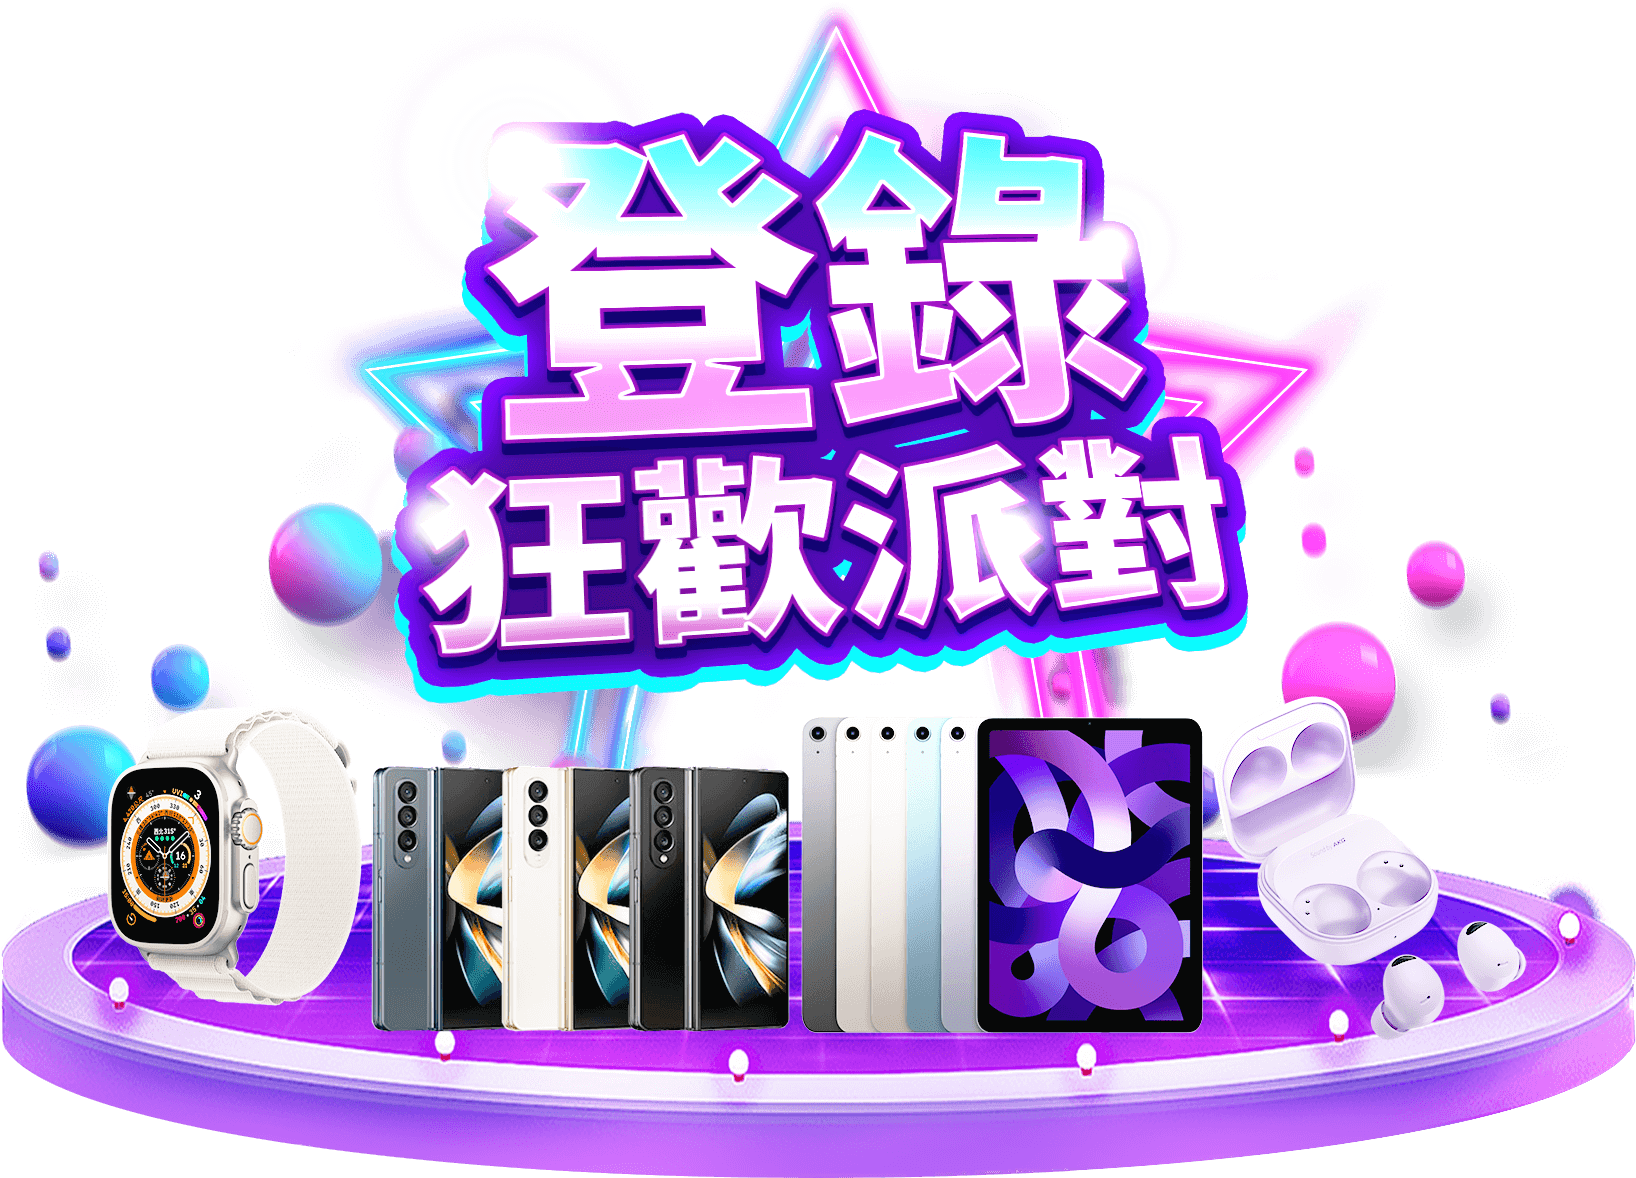
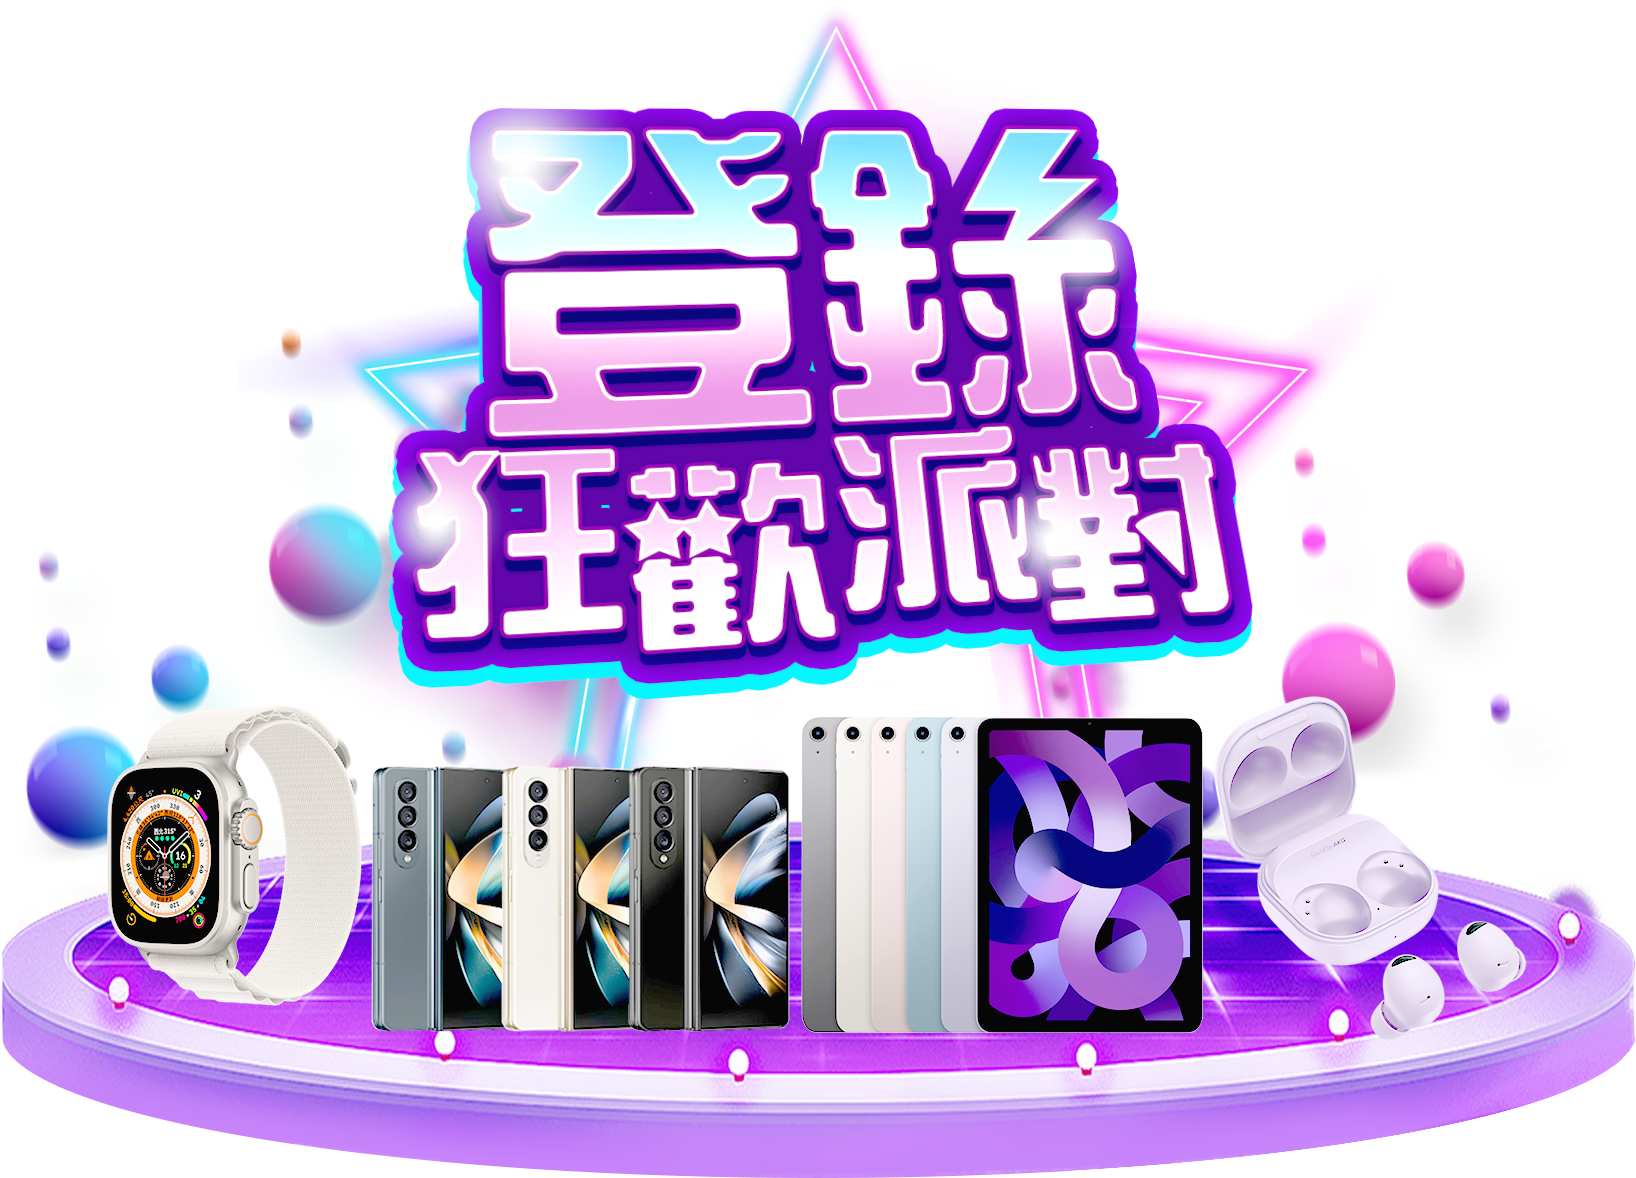
主視覺優化

diff --git a/202210preregister.css b/202210preregister.css
@@ -94,22 +94,22 @@ body {
 
 @keyframes eventMv {
     0% {
-        content: url('https://image.mycard520.com/globalmycard/member/preregister/main/202210/webImg/eventMv01.png');
+        content: url('./preregister/eventMv01.png?v=20230528');
     }
     92% {
-        content: url('https://image.mycard520.com/globalmycard/member/preregister/main/202210/webImg/eventMv01.png');
+        content: url('./preregister/eventMv01.png?v=20230528');
     }
     94% {
-        content: url('https://image.mycard520.com/globalmycard/member/preregister/main/202210/webImg/eventMv.png');
+        content: url('./preregister/eventMv.png?v=20230528');
     }
     96% {
-        content: url('https://image.mycard520.com/globalmycard/member/preregister/main/202210/webImg/eventMv01.png');
+        content: url('./preregister/eventMv01.png?v=20230528');
     }
     98% {
-        content: url('https://image.mycard520.com/globalmycard/member/preregister/main/202210/webImg/eventMv.png');
+        content: url('./preregister/eventMv.png?v=20230528');
     }
     100% {
-        content: url('https://image.mycard520.com/globalmycard/member/preregister/main/202210/webImg/eventMv01.png');
+        content: url('./preregister/eventMv01.png?v=20230528');
     }
 }
 

diff --git a/index.html b/index.html
@@ -45,9 +45,9 @@
     <div class="container-fluid mainBody">
         <div class="container">
             <div class="row justify-content-center p-4 position-relative">
-                <img class="eventMv" src="https://image.mycard520.com/globalmycard/member/preregister/main/202210/webImg/eventMv.png" alt="">
-                <img class="b1 col-xl-3 col-md-3 col-sm-4 col-3" src="https://image.mycard520.com/globalmycard/member/preregister/main/202210/webImg/b1.png" alt="">
-                <img class="b2 col-xl-3 col-md-3 col-sm-4 col-3" src="https://image.mycard520.com/globalmycard/member/preregister/main/202210/webImg/b2.png" alt="">
+                <img class="eventMv col-md-8 col-12" src="./preregister/eventMv.png?v=20230528" alt="">
+                <img class="b1 col-md-3 col-3 d-sm-block d-none" src="https://image.mycard520.com/globalmycard/member/preregister/main/202210/webImg/b1.png" alt="">
+                <img class="b2 col-md-3 col-3 d-sm-block d-none" src="https://image.mycard520.com/globalmycard/member/preregister/main/202210/webImg/b2.png" alt="">
             </div>
         </div>
     </div>
